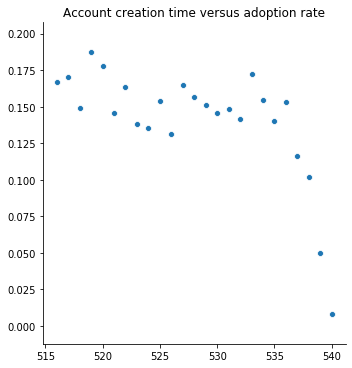
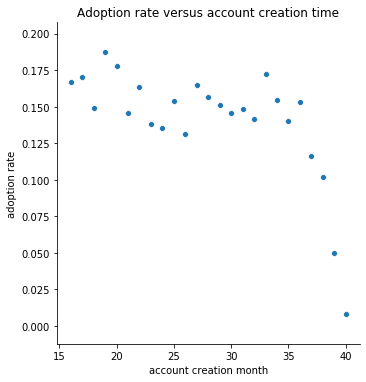
updating writeup

diff --git a/mini-projects/relax_challenge/README.md b/mini-projects/relax_challenge/README.md
@@ -8,9 +8,11 @@ The details of the analysis can be found [here](https://github.com/metacreek/spr
 
 Analysis shows that the most important factor in predicting adoption is the account creation time. We must view this with
 some skepticism as older accounts will have the most opportunity to have become adopted at some point over their life; 
-similarly, it is possible that newer accounts will eventually become adopted but have not yet had enough time to do so.
-See the   
+similarly, it is possible that newer accounts will eventually become adopted but have not yet had enough time to do so. 
 For this reason, I removed this feature and repeated the analysis to determine the next most important factor.
+
+You can see the effect of account creation on adoption rate in the following diagram:
+![adoption rate as a function of account age](./creation_adoption.png)
 
 ### Second most important factor: organization
 
